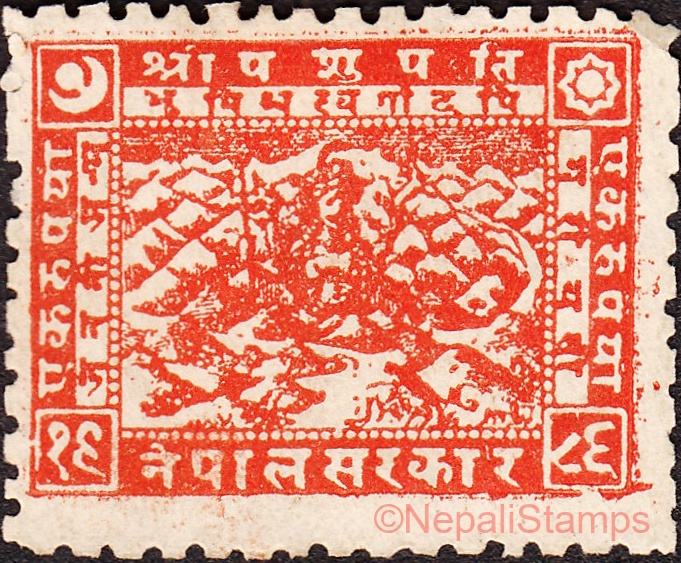
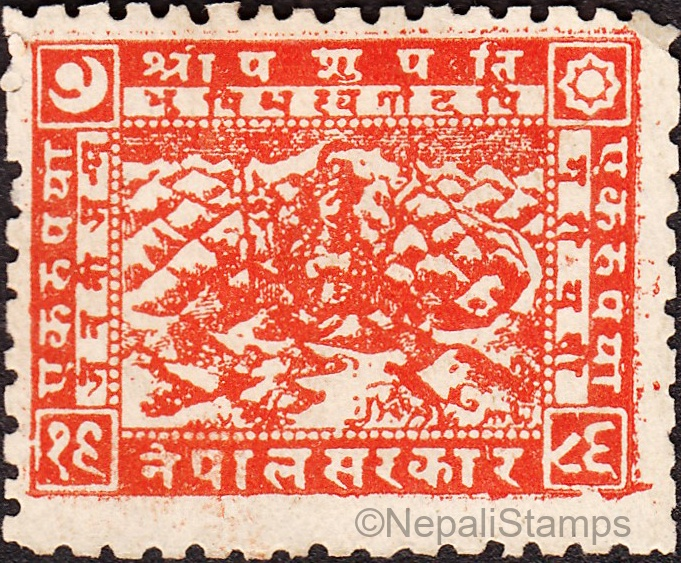
feat: use x and y values for the watermark position

Changed region(s): [[0.5242, 0.8757, 0.9559, 0.9663]]

diff --git a/watermark.py b/watermark.py
@@ -7,15 +7,11 @@ from PIL import Image, ImageDraw, ImageFont
 
 WATERMARK_TEXT = "©NepaliStamps"
 
-# Position options:
-# "top-left"
-# "top-center"
-# "top-right"
-# "center"
-# "bottom-left"
-# "bottom-center"
-# "bottom-right"
-POSITION = "bottom-right"
+# Custom watermark position
+# X = distance from the left
+# Y = distance from the top
+POSITION_X = 355
+POSITION_Y = 500
 
 # Rotation in degrees
 ROTATION = 0
@@ -33,10 +29,7 @@ FONT_SIZE = 40
 # Black = (0, 0, 0)
 # Red   = (255, 0, 0)
 # Blue  = (0, 0, 255)
-WATERMARK_COLOR = (255, 0, 0)
-
-# Distance from image edges
-MARGIN = 30
+WATERMARK_COLOR = (0, 0, 0)
 
 
 # =========================
@@ -54,7 +47,11 @@ OUTPUT_IMAGE = "output/test-stamp-watermarked.jpg"
 image = Image.open(INPUT_IMAGE).convert("RGBA")
 
 # Create transparent layer for watermark
-watermark_layer = Image.new("RGBA", image.size, (0, 0, 0, 0))
+watermark_layer = Image.new(
+    "RGBA",
+    image.size,
+    (0, 0, 0, 0)
+)
 
 draw = ImageDraw.Draw(watermark_layer)
 
@@ -67,61 +64,11 @@ font = ImageFont.truetype("arial.ttf", FONT_SIZE)
 
 
 # =========================
-# Get text dimensions
-# =========================
-
-bbox = draw.textbbox(
-    (0, 0),
-    WATERMARK_TEXT,
-    font=font
-)
-
-text_width = bbox[2] - bbox[0]
-text_height = bbox[3] - bbox[1]
-
-
-# =========================
-# Position
-# =========================
-
-if POSITION == "bottom-right":
-    x = image.width - text_width - MARGIN
-    y = image.height - text_height - MARGIN
-
-elif POSITION == "bottom-left":
-    x = MARGIN
-    y = image.height - text_height - MARGIN
-
-elif POSITION == "bottom-center":
-    x = (image.width - text_width) // 2
-    y = image.height - text_height - MARGIN
-
-elif POSITION == "top-right":
-    x = image.width - text_width - MARGIN
-    y = MARGIN
-
-elif POSITION == "top-left":
-    x = MARGIN
-    y = MARGIN
-
-elif POSITION == "top-center":
-    x = (image.width - text_width) // 2
-    y = MARGIN
-
-elif POSITION == "center":
-    x = (image.width - text_width) // 2
-    y = (image.height - text_height) // 2
-
-else:
-    raise ValueError(f"Unknown position: {POSITION}")
-
-
-# =========================
 # Draw watermark
 # =========================
 
 draw.text(
-    (x, y),
+    (POSITION_X, POSITION_Y),
     WATERMARK_TEXT,
     font=font,
     fill=(*WATERMARK_COLOR, OPACITY)
@@ -161,4 +108,3 @@ image.convert("RGB").save(
 
 
 print(f"Watermarked image saved to: {OUTPUT_IMAGE}")
-    
